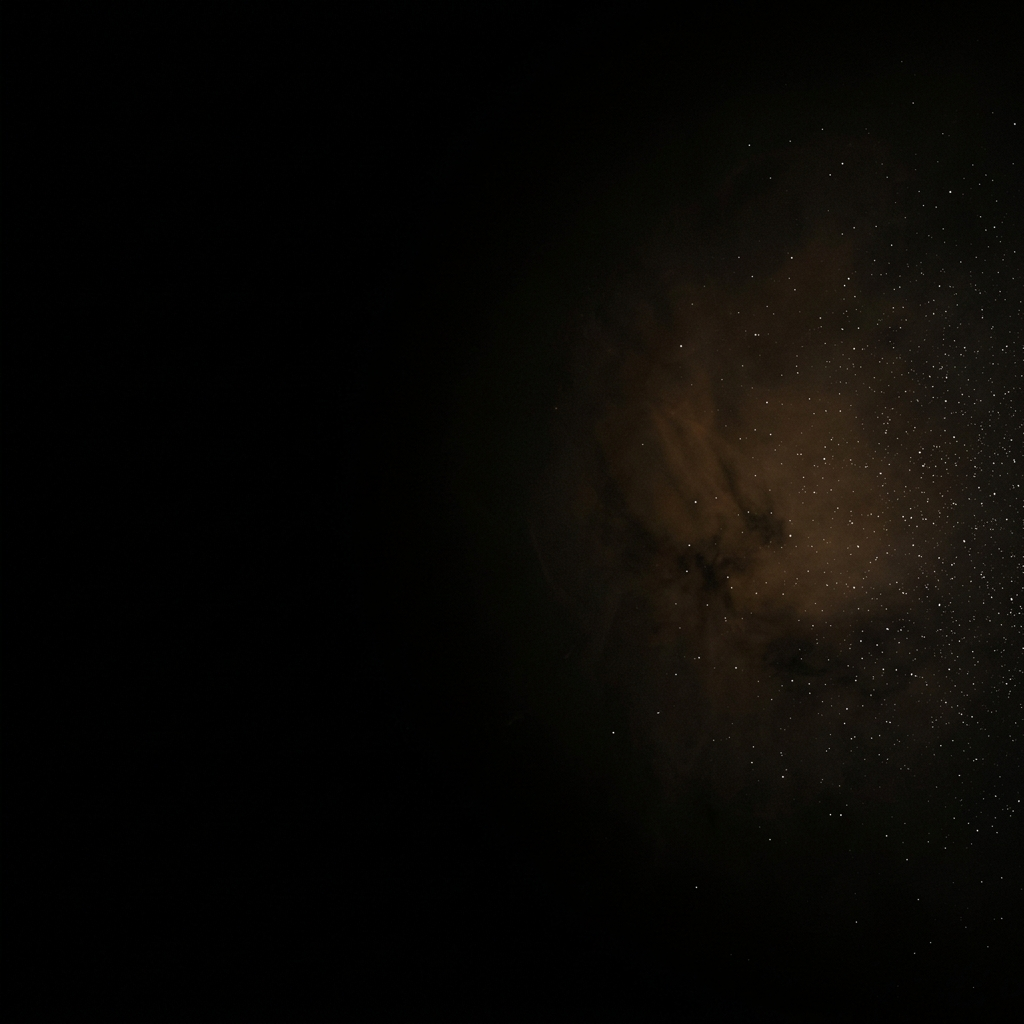
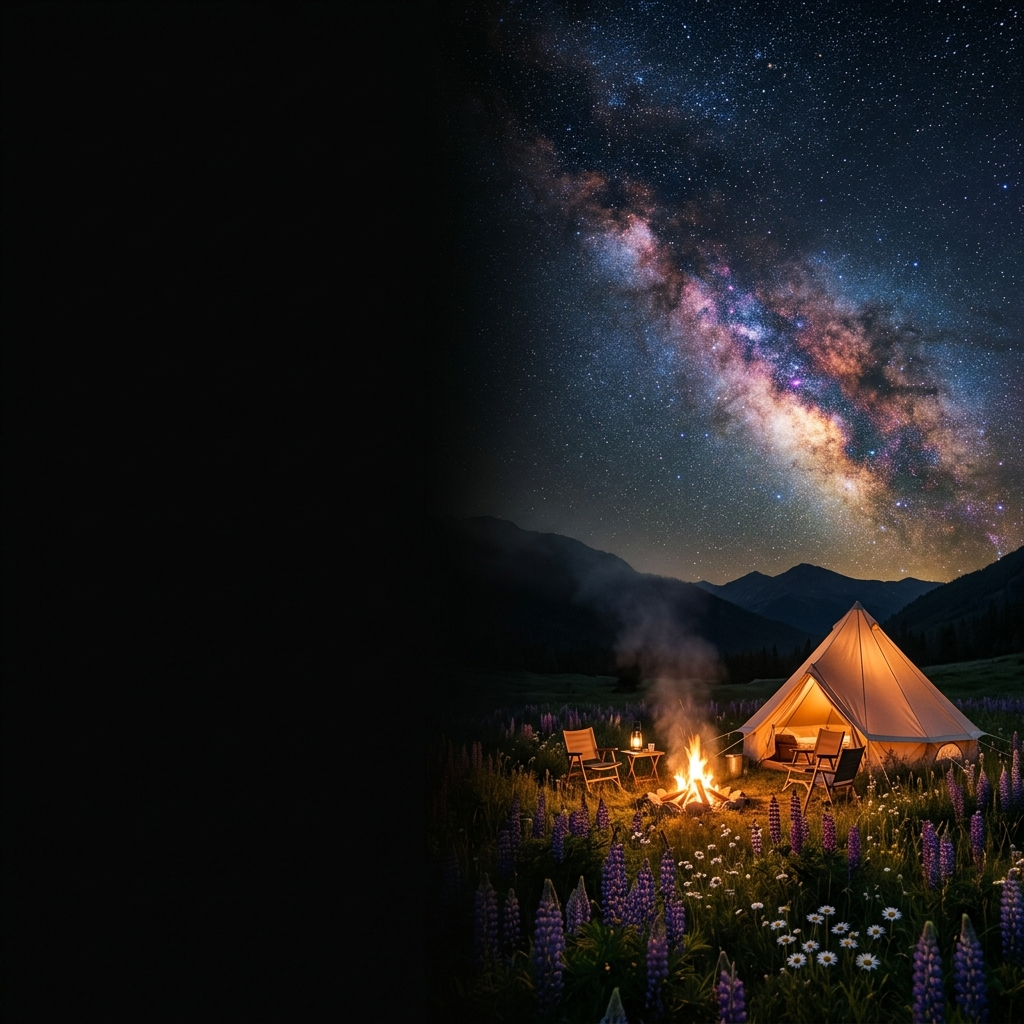
style: apply premium campfire astrophotography background to footer

diff --git a/src/components/layout/Footer.css b/src/components/layout/Footer.css
@@ -2,7 +2,9 @@
     position: relative;
     z-index: 4;
     padding: var(--space-2xl) var(--space-xl) var(--space-xl); /* Restored top 64px, side 32px, bottom 32px for premium breathability */
-    background: linear-gradient(to right, #000000 0%, rgba(0, 0, 0, 0.3) 50%, rgba(0, 0, 0, 0.1) 100%), url('/footer-celestial-bg.png');
+    background: linear-gradient(to bottom, rgba(0, 0, 0, 0.85) 0%, rgba(0, 0, 0, 0) 30%),
+                linear-gradient(to right, #000000 0%, rgba(0, 0, 0, 0.88) 40%, rgba(0, 0, 0, 0.45) 80%, rgba(0, 0, 0, 0.15) 100%),
+                url('/footer-celestial-bg.png');
     background-size: cover;
     background-position: right center;
     background-repeat: no-repeat;
@@ -253,7 +255,7 @@
 @media (max-width: 768px) {
     .footer {
         padding: var(--space-2xl) var(--space-md) var(--space-lg);
-        background: linear-gradient(to bottom, rgba(0, 0, 0, 0.95) 0%, rgba(0, 0, 0, 0.5) 100%), url('/footer-celestial-bg.png');
+        background: linear-gradient(to bottom, rgba(0, 0, 0, 0.95) 0%, rgba(0, 0, 0, 0.65) 60%, rgba(0, 0, 0, 0.35) 100%), url('/footer-celestial-bg.png');
         background-size: cover;
         background-position: center;
     }